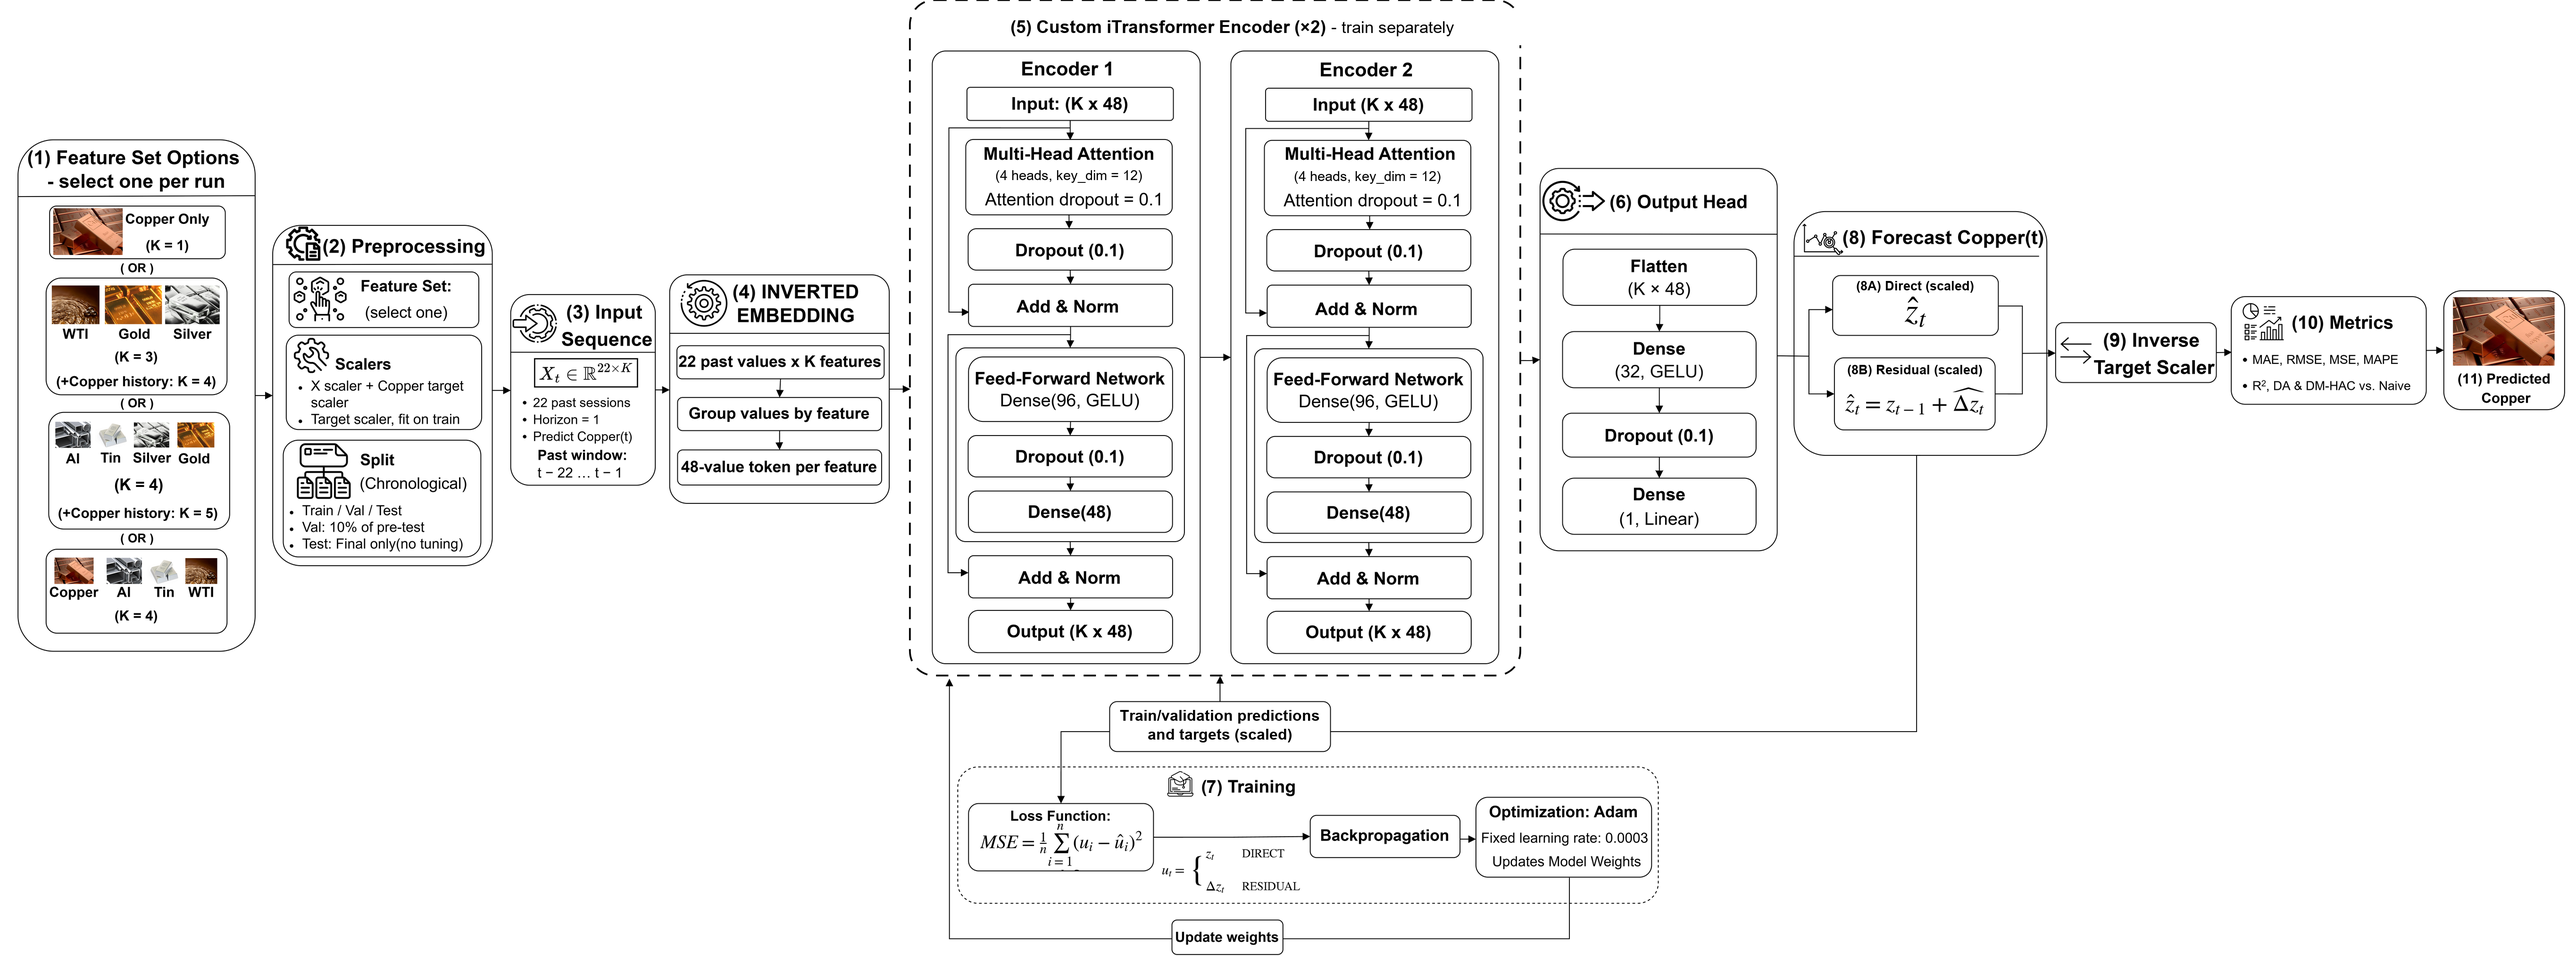
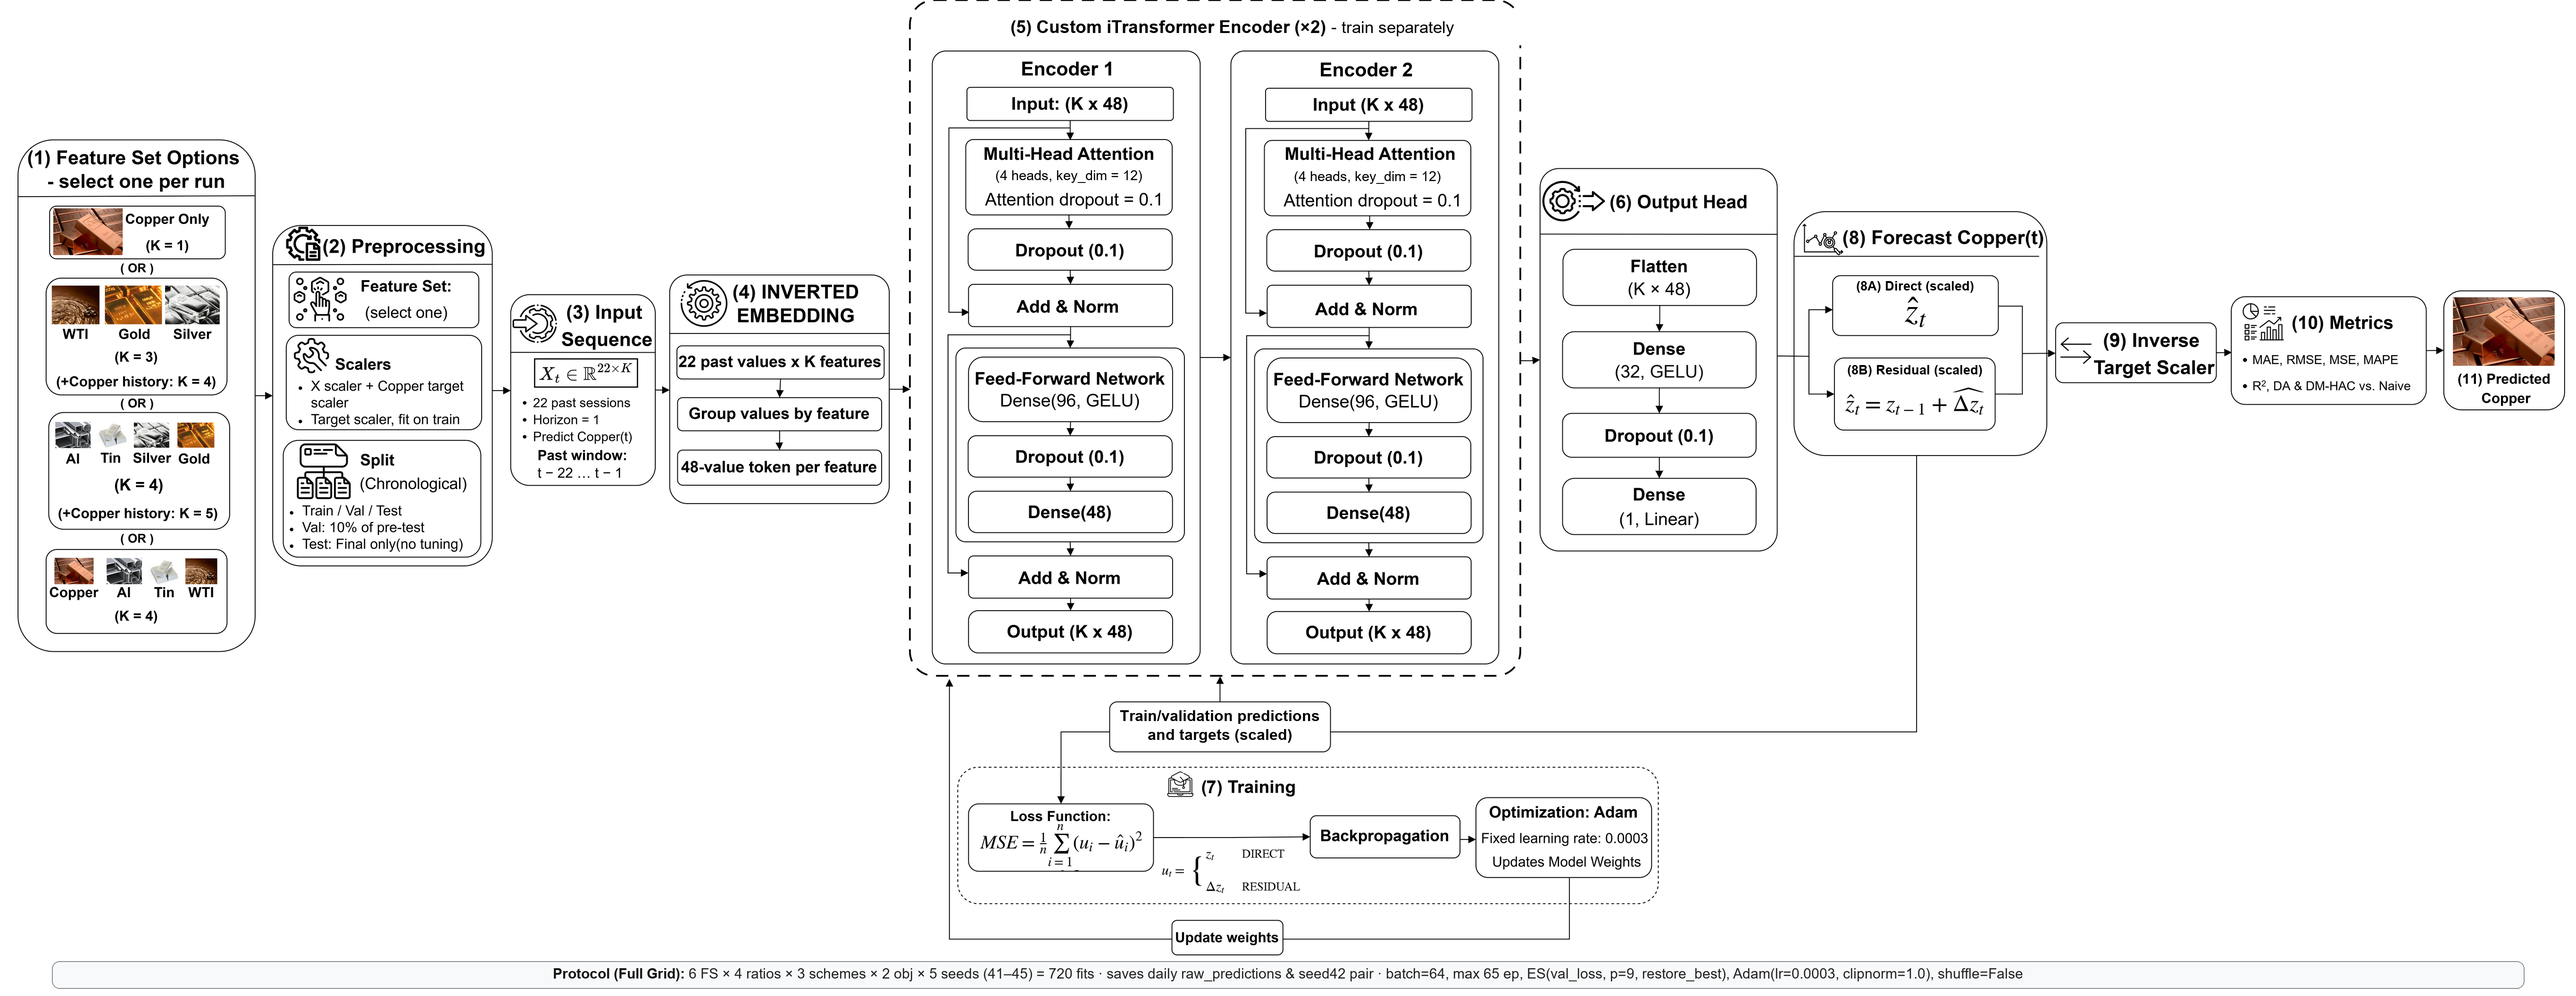
Final polish: clean #7 overlap, add return_sequences=True across all RNNs, and add uniform protocol footers on all 8 pipelines

Changed region(s): [[0.1868, 0.0311, 0.8094, 1.0], [0.0, 0.1243, 0.3424, 0.6834], [0.5915, 0.1553, 0.9962, 0.5592]]

diff --git a/Pineline/README.md b/Pineline/README.md
@@ -1,6 +1,6 @@
 # Tổng hợp Pipeline Toàn Nhóm (8 Kiến trúc Chính)
 
-Thư mục này tổng hợp đầy đủ **8 sơ đồ pipeline** cho toàn bộ các mô hình Deep Learning / Hybrid chính của 5 thành viên trong dự án **Copper Futures Price Forecasting** (định dạng PNG độ phân giải cao ~5.5K–6.1K, đã đối chiếu trực tiếp từng notebook, đồng bộ chuẩn in đậm/gạch đầu dòng theo mẫu LSTM và kiểm tra khối `(9) Metrics` khớp 100% từng hàm đánh giá trong code).
+Thư mục này tổng hợp đầy đủ **8 sơ đồ pipeline** cho toàn bộ các mô hình Deep Learning / Hybrid chính của 5 thành viên trong dự án **Copper Futures Price Forecasting** (định dạng PNG độ phân giải cao ~5.5K–6.1K, đã đối chiếu trực tiếp từng notebook, chuẩn hóa ký hiệu scaled `zₜ / Δzₜ`, bổ sung `return_sequences=True` cho toàn bộ tầng RNN đầu tiên, đồng bộ chuẩn in đậm/gạch đầu dòng, kiểm tra khối `Metrics` khớp 100% code và gắn thanh footer 1 dòng ghi rõ giao thức chạy ở chân mỗi sơ đồ).
 
 | # | Tệp sơ đồ | Mô hình / Phương pháp | Phạm vi bộ biến, mục tiêu & giao thức chính xác theo code | `(9) Metrics` khớp đúng notebook | Nguồn mã nguồn |
 |---:|---|---|---|---|---|
